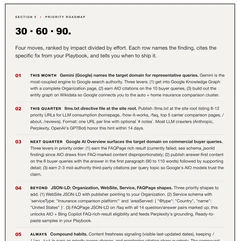
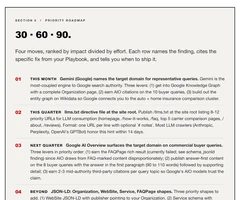
feat(gallery): replace Prompts with Dashboard tile + recrop Patterns + Roadmap (#39)
Operator feedback round 7:

1. Replace tile #7 (Prompts to Playbook Section 06) with a new
   "Dashboard" tile (Playbook Section 01). The Prompts crop, even
   with the prompt body redacted, was visually competing with Code
   and Scorecard tiles for the same Playbook real estate. The new
   Dashboard view is a higher-leverage marketing artifact: it shows
   the whole executive read in one image:
     - 4-cell KPI strip (You cited 40% / Leader cited 80% /
       Findings 17 / Priority 5)
     - 4 engine cards (ChatGPT, Claude, Gemini, Perplexity) with
       per-engine progress bars and "N / 10 queries cited" labels
     - "The three patterns moving the needle" header
     - 4 severity-graded finding cards (HIGH / HIGH / MEDIUM /
       CLEAN) with FIX boxes

   To fit all of that on a single PDF page (default A4 split it
   across p1 + p2), the marketing render now passes a tall @page
   override (595pt x 1500pt) to WeasyPrint at extract time. The
   live customer Playbook is HTML, not a customer-delivered PDF, so
   it never sees this override.

   File: 09-prompts.webp deleted, replaced by 09-dashboard.webp at
   766x997 (thumb 240x315).

2. Patterns recrop. Trimmed y0 + y1 to match the operator's round
   7 reference framing: title + 3 numbered cards, no extraneous
   space at top or bottom. New tile 766x484 (was 766x515).

3. Roadmap recrop. Pulled y1 in from 0.75 to 0.62 so the rendered
   text is readable at thumbnail scale. Now shows the 30 / 60 /
[…]

diff --git a/services.html b/services.html
@@ -26,7 +26,7 @@
   <meta name="twitter:description" content="Three fixed-price SXO services: Pulse $1,500 · Audit $5,000 · Enterprise $12,500. One-time. No retainer." />
   <meta name="twitter:image" content="https://web-cited.com/og/services.png" />
 
-  <link rel="stylesheet" href="css/styles.css?v=2026-04-28c" />
+  <link rel="stylesheet" href="css/styles.css?v=2026-04-28d" />
   <script type="application/ld+json">
   {
     "@context": "https://schema.org",
@@ -334,19 +334,19 @@
               <span class="gal-thumb-cap">Cover</span>
             </button></li>
             <li><button type="button" class="gal-thumb" role="tab" aria-selected="false"
-              data-hero="og/sample-gallery/02-patterns.webp?v=d" data-w="766" data-h="515"
+              data-hero="og/sample-gallery/02-patterns.webp?v=e" data-w="766" data-h="484"
               data-alt="Three numbered patterns with high-severity badges."
               data-title="Patterns &middot; Audit Section 1"
               data-detail="The three highest-leverage patterns moving the citation number, ranked by impact divided by effort. What an executive reads in 60 seconds before flipping to the technical body.">
-              <img src="og/sample-gallery/thumbs/02-patterns.webp?v=d" alt="" width="240" height="155" loading="lazy" decoding="async" />
+              <img src="og/sample-gallery/thumbs/02-patterns.webp?v=e" alt="" width="240" height="144" loading="lazy" decoding="async" />
               <span class="gal-thumb-cap">Patterns</span>
             </button></li>
             <li><button type="button" class="gal-thumb" role="tab" aria-selected="false"
-              data-hero="og/sample-gallery/04-roadmap.webp?v=c" data-w="766" data-h="774"
-              data-alt="Five-rung priority roadmap with this-month, this-quarter, next-quarter, beyond, and always rows."
+              data-hero="og/sample-gallery/04-roadmap.webp?v=e" data-w="766" data-h="650"
+              data-alt="Priority roadmap showing four numbered moves: this month, this quarter, next quarter, and beyond."
               data-title="Roadmap &middot; Audit Section 5"
-              data-detail="A 30 / 60 / 90 / Beyond ladder of what to ship first, second, third, and after. Each rung names the finding, cites the specific fix, and tells you when to ship it. Plus an Always row of compound habits that keep the score climbing.">
-              <img src="og/sample-gallery/thumbs/04-roadmap.webp?v=c" alt="" width="240" height="241" loading="lazy" decoding="async" />
+              data-detail="The 30 / 60 / 90 / Beyond ladder of what to ship first, second, third, and after. Each rung names the finding, cites the specific fix from your Playbook, and tells you when to ship it.">
+              <img src="og/sample-gallery/thumbs/04-roadmap.webp?v=e" alt="" width="240" height="200" loading="lazy" decoding="async" />
               <span class="gal-thumb-cap">Roadmap</span>
             </button></li>
             <li><button type="button" class="gal-thumb" role="tab" aria-selected="false"
@@ -374,12 +374,12 @@
               <span class="gal-thumb-cap">Code</span>
             </button></li>
             <li><button type="button" class="gal-thumb" role="tab" aria-selected="false"
-              data-hero="og/sample-gallery/09-prompts.webp?v=d" data-w="766" data-h="1013"
-              data-alt="Prompt grid with working prompts and post-fix validation prompts."
-              data-title="Prompts &middot; Playbook Section 06"
-              data-detail="Two prompt sets. The first five are working prompts you run against your draft content during remediation. The last five are validation prompts you run against your live site 7 to 14 days after each priority fix to verify lift before the next one ships.">
-              <img src="og/sample-gallery/thumbs/09-prompts.webp?v=d" alt="" width="240" height="321" loading="lazy" decoding="async" />
-              <span class="gal-thumb-cap">Prompts</span>
+              data-hero="og/sample-gallery/09-dashboard.webp?v=e" data-w="766" data-h="997"
+              data-alt="Playbook executive dashboard with 40% / 80% citation share KPI strip, four engine cards, and four severity-graded finding cards."
+              data-title="Dashboard &middot; Playbook Section 01"
+              data-detail="The whole executive read in one glance. KPI strip with you-cited and leader-cited share, four-engine breakdown (ChatGPT, Claude, Gemini, Perplexity) with per-engine progress bars, then the three patterns moving the needle and the top four severity-graded finding cards that drive your priority fixes.">
+              <img src="og/sample-gallery/thumbs/09-dashboard.webp?v=e" alt="" width="240" height="315" loading="lazy" decoding="async" />
+              <span class="gal-thumb-cap">Dashboard</span>
             </button></li>
           </ul>
         </figure>

diff --git a/index.html b/index.html
@@ -27,7 +27,7 @@
   <meta name="twitter:description" content="Fixed-price $5,000 SXO audits: SEO, AEO, GEO. 4 LLM engines (ChatGPT, Perplexity, Gemini, Claude) run the buyer-question prompt grid; Bing and Google AI Overview tested for brand presence. No retainer." />
   <meta name="twitter:image" content="https://web-cited.com/og/home.png" />
 
-  <link rel="stylesheet" href="css/styles.css?v=2026-04-28c" />
+  <link rel="stylesheet" href="css/styles.css?v=2026-04-28d" />
   <script type="application/ld+json">
   {
     "@context": "https://schema.org",

diff --git a/start.html b/start.html
@@ -32,7 +32,7 @@
   <meta name="twitter:description" content="Submit the intake form. Scope confirmed, invoice sent, crawl kicked off inside one business day." />
   <meta name="twitter:image" content="https://web-cited.com/og/pricing.png" />
 
-  <link rel="stylesheet" href="css/styles.css?v=2026-04-28c" />
+  <link rel="stylesheet" href="css/styles.css?v=2026-04-28d" />
   <style>
     /* Brand-repeater (Phase 2). Scoped to start.html so the change stays
        in one file. Uses existing design tokens defined in css/styles.css

diff --git a/terms.html b/terms.html
@@ -27,7 +27,7 @@
   <meta name="twitter:description" content="Web Cited Terms of Service: governing law, arbitration, liability, intellectual property, and other contract terms governing use of the Site and Services." />
   <meta name="twitter:image" content="https://web-cited.com/og/home.png" />
 
-  <link rel="stylesheet" href="css/styles.css?v=2026-04-28c" />
+  <link rel="stylesheet" href="css/styles.css?v=2026-04-28d" />
   <script type="application/ld+json">
   {
     "@context": "https://schema.org",

diff --git a/how-it-works.html b/how-it-works.html
@@ -26,7 +26,7 @@
   <meta name="twitter:description" content="Fixed six-step SXO audit: intake, multi-engine crawl, citation analysis, remediation plan, delivery, async implementation support." />
   <meta name="twitter:image" content="https://web-cited.com/og/how-it-works.png" />
 
-  <link rel="stylesheet" href="css/styles.css?v=2026-04-28c" />
+  <link rel="stylesheet" href="css/styles.css?v=2026-04-28d" />
   <script type="application/ld+json">
   {
     "@context": "https://schema.org",

diff --git a/why-sxo.html b/why-sxo.html
@@ -28,7 +28,7 @@
   <meta name="twitter:description" content="What each acronym means, the 2024 data, and why traditional SEO audits no longer cover the revenue surface." />
   <meta name="twitter:image" content="https://web-cited.com/og/why-sxo.png" />
 
-  <link rel="stylesheet" href="css/styles.css?v=2026-04-28c" />
+  <link rel="stylesheet" href="css/styles.css?v=2026-04-28d" />
   <script type="application/ld+json">
   {
     "@context": "https://schema.org",

diff --git a/about.html b/about.html
@@ -26,7 +26,7 @@
   <meta name="twitter:description" content="Senior-led SXO audit practice. One fixed deliverable, no retainer path, no managed-services upsell." />
   <meta name="twitter:image" content="https://web-cited.com/og/about.png" />
 
-  <link rel="stylesheet" href="css/styles.css?v=2026-04-28c" />
+  <link rel="stylesheet" href="css/styles.css?v=2026-04-28d" />
   <script type="application/ld+json">
   {
     "@context": "https://schema.org",

diff --git a/pricing.html b/pricing.html
@@ -26,7 +26,7 @@
   <meta name="twitter:description" content="Three public tiers. Pulse $1,500 · SXO Audit $5,000 · Enterprise $12,500." />
   <meta name="twitter:image" content="https://web-cited.com/og/pricing.png" />
 
-  <link rel="stylesheet" href="css/styles.css?v=2026-04-28c" />
+  <link rel="stylesheet" href="css/styles.css?v=2026-04-28d" />
   <script type="application/ld+json">
   {
     "@context": "https://schema.org",

diff --git a/contact.html b/contact.html
@@ -32,7 +32,7 @@
   <meta name="twitter:description" content="Send a message to Web Cited. We respond inside one business day." />
   <meta name="twitter:image" content="https://web-cited.com/og/home.png" />
 
-  <link rel="stylesheet" href="css/styles.css?v=2026-04-28c" />
+  <link rel="stylesheet" href="css/styles.css?v=2026-04-28d" />
   <script type="application/ld+json">
   {
     "@context": "https://schema.org",

diff --git a/privacy.html b/privacy.html
@@ -26,7 +26,7 @@
   <meta name="twitter:description" content="No analytics, no tracking cookies, no third-party scripts." />
   <meta name="twitter:image" content="https://web-cited.com/og/home.png" />
 
-  <link rel="stylesheet" href="css/styles.css?v=2026-04-28c" />
+  <link rel="stylesheet" href="css/styles.css?v=2026-04-28d" />
   <script type="application/ld+json">
   {
     "@context": "https://schema.org",

diff --git a/support.html b/support.html
@@ -26,7 +26,7 @@
   <meta name="twitter:description" content="Answers to common Web Cited support questions." />
   <meta name="twitter:image" content="https://web-cited.com/og/home.png" />
 
-  <link rel="stylesheet" href="css/styles.css?v=2026-04-28c" />
+  <link rel="stylesheet" href="css/styles.css?v=2026-04-28d" />
   <script type="application/ld+json">
   {
     "@context": "https://schema.org",

diff --git a/thanks.html b/thanks.html
@@ -19,7 +19,7 @@
   <meta property="og:url" content="https://web-cited.com/thanks.html" />
   <meta property="og:locale" content="en_US" />
 
-  <link rel="stylesheet" href="css/styles.css?v=2026-04-28c" />
+  <link rel="stylesheet" href="css/styles.css?v=2026-04-28d" />
 </head>
 <body>
   <a class="skip-link" href="#main">Skip to content</a>
